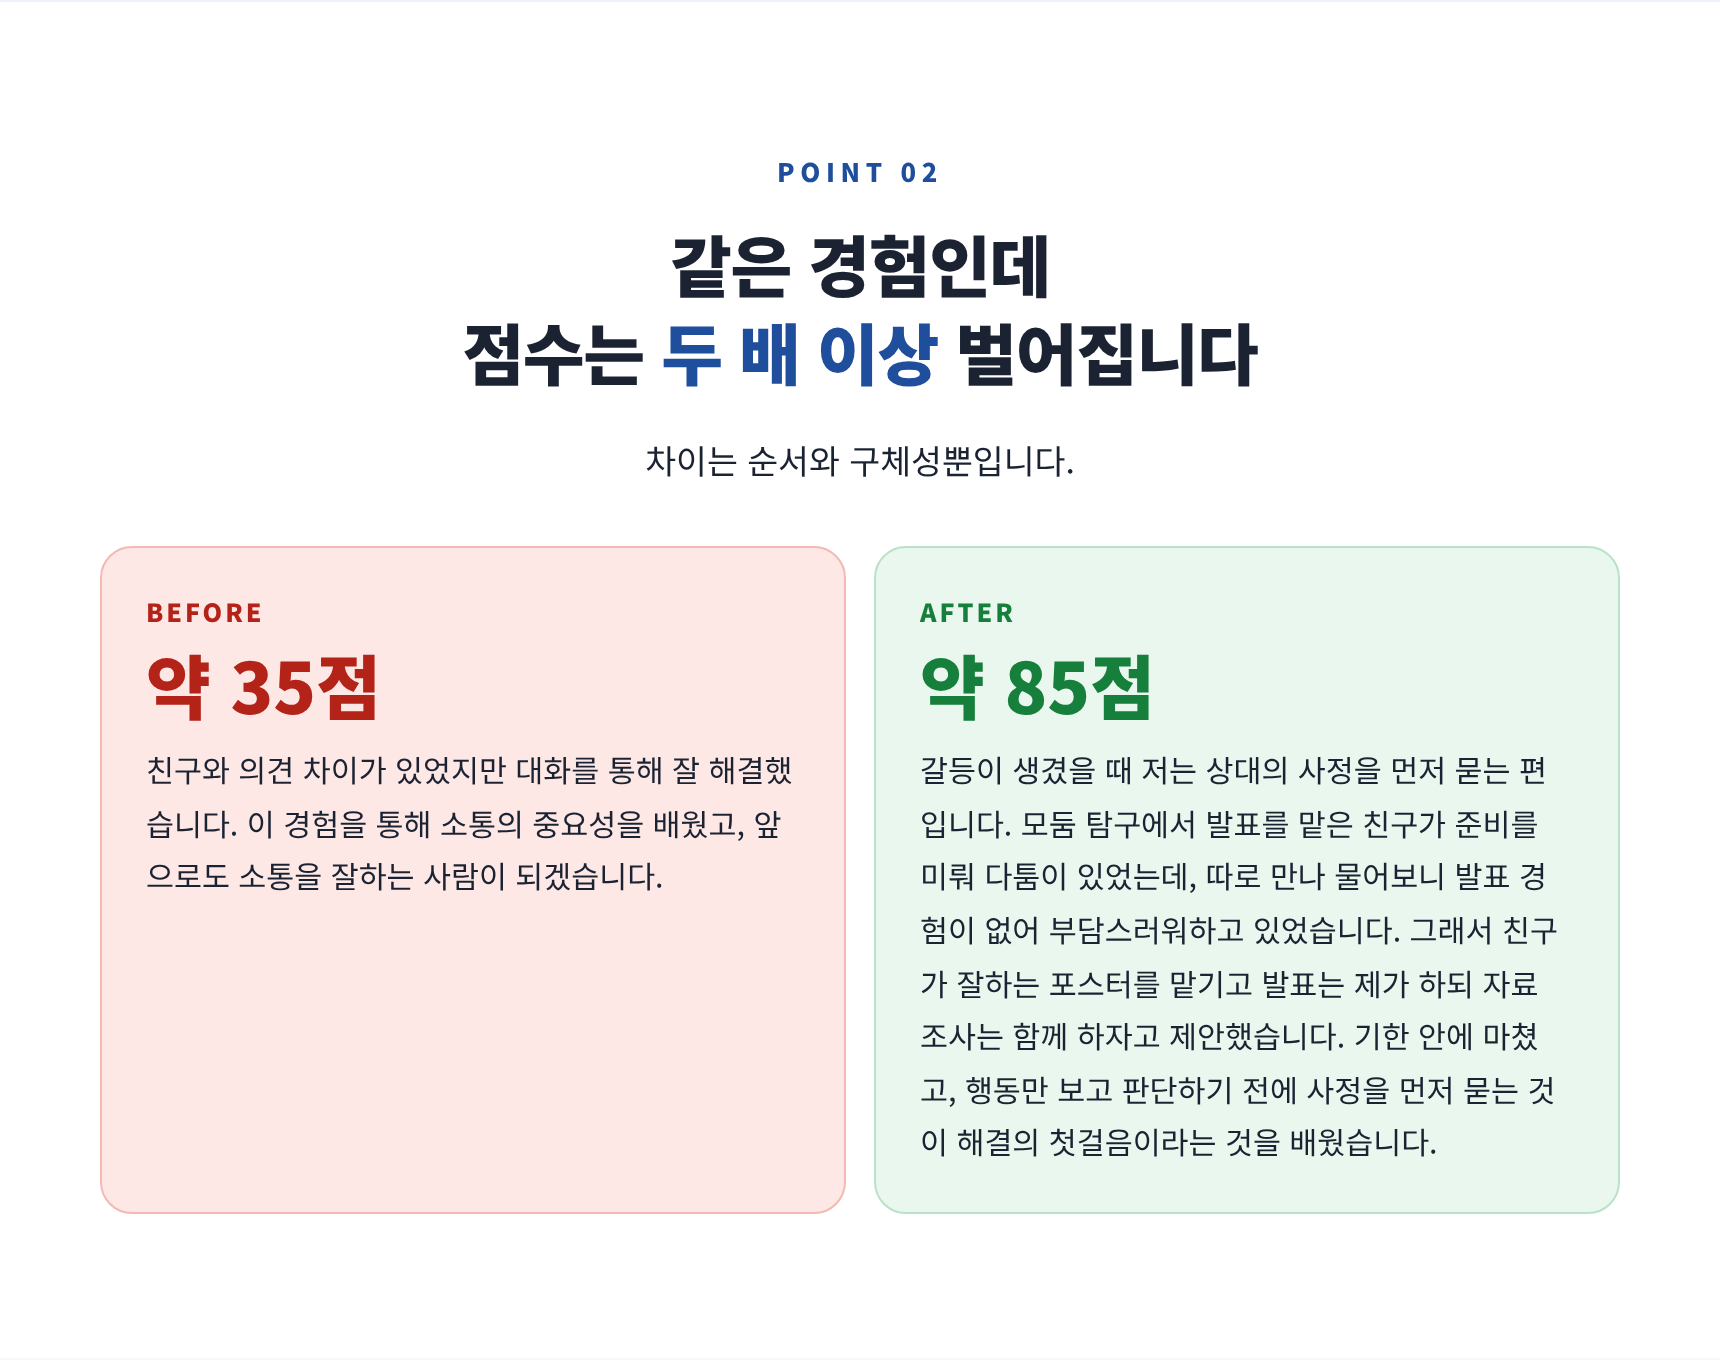
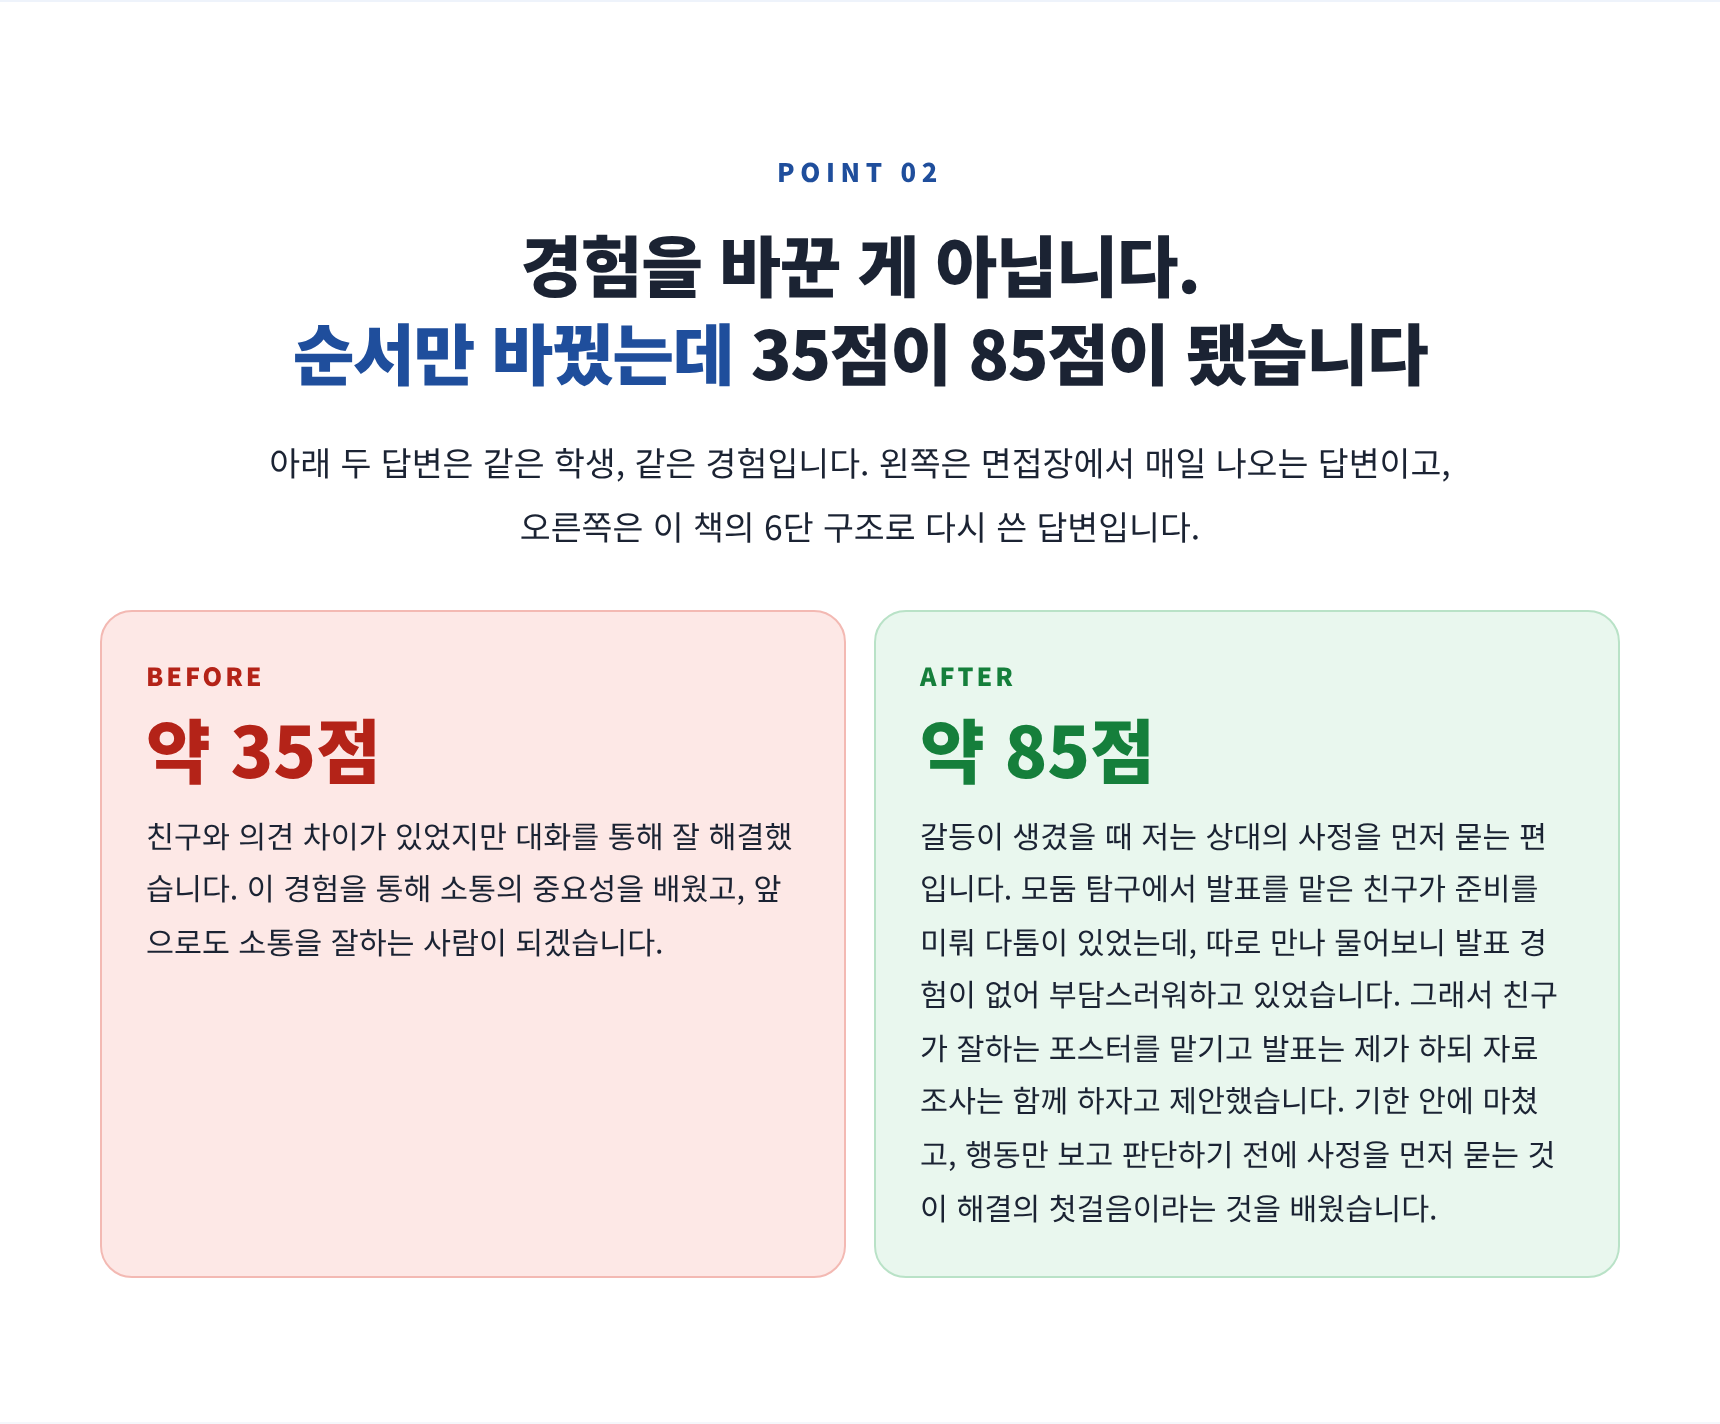
판매 페이지 후킹 강화: 실패 장면 4개·면접관 속마음·손실 숫자·마지막 CTA 추가, 상세 이미지 19장
Claude-Session: https://claude.ai/code/session_01LfMg5dKQNRxueXx57fvRFL

Changed region(s): [[0.0616, 0.0926, 0.832, 0.6794], [0.5238, 0.4324, 0.9244, 0.8647], [0.0616, 0.8647, 0.493, 0.8956]]

diff --git a/book.html b/book.html
@@ -18,8 +18,9 @@
   <section class="blk hero2" data-card="01-hero">
     <div class="cover"><small>수시 면접 · 입학처장의 채점표</small><b>면접관은<br>이렇게 듣는다</b><i>A4 24쪽 · 초판 2026.10</i></div>
     <span class="tag">초판 100부 한정 · 1권마다 1,000원 인상</span>
-    <h1 class="title">면접관은 잘 말하는 학생을<br>뽑지 않습니다</h1>
-    <p class="sub">현직 입학처장이 면접관 교육에서 쓰는 채점 기준을<br>수험생이 읽을 수 있게 처음으로 옮겼습니다.</p>
+    <p class="shock">3년을 준비하고, 7분 만에 결정됩니다.</p>
+    <h1 class="title">떨어진 학생 대부분은<br>왜 떨어졌는지 모릅니다</h1>
+    <p class="sub">면접관의 책상 위에는 채점표가 있습니다. 학생은 그걸 본 적이 없습니다.<br>현직 입학처장이 그 채점표와 "점수가 새는 지점"을 처음으로 수험생 쪽에서 썼습니다.</p>
     <div class="nums">
       <div><b>100</b><span>점 채점표</span></div>
       <div><b>10</b><span>문항 유형</span></div>
@@ -36,10 +37,50 @@
     <p class="p dim">없는 경험을 만들어 주는 책이 아닙니다. 있는 경험을 면접관이 알아듣는 구조로 바꾸는 책입니다.</p>
   </section>
 
+  <!-- 02b 실패 장면 -->
+  <section class="blk soft" data-card="02b-fails">
+    <span class="pt">면접장에서 매년 반복되는 장면</span>
+    <h2 class="h">열심히 준비한 학생이<br><em>이렇게</em> 떨어집니다</h2>
+    <p class="p">면접관 자리에서 매년 똑같이 보는 네 장면입니다. 학생 이름만 바뀝니다.</p>
+    <div class="fails">
+      <div class="fail"><div class="no">1</div><div><h4>외운 답변이 두 번째 문장에서 끊긴 학생</h4><p>"친구와 갈등이 있었는데… 갈등이 있었는데…" 처음부터 다시 시작했고, 면접관은 기다리지 않고 다음 질문으로 넘어갔습니다. 그 문항은 빈칸으로 남았습니다.</p><span class="mark">채점표에 적힌 것: <b>질문 충족 0 · 시간 0</b></span></div></div>
+      <div class="fail"><div class="no">2</div><div><h4>학원 답변으로 1분을 채운 학생</h4><p>답변은 매끄러웠습니다. 면접관이 물었습니다. "그래서 그때 학생이 직접 한 건 뭐예요?" 5초 침묵. 답변은 학생 것이 아니었고, 면접관은 그걸 첫 문장에서 이미 알고 있었습니다.</p><span class="mark">채점표에 적힌 것: <b>진정성 0 · 구체성 5</b></span></div></div>
+      <div class="fail"><div class="no">3</div><div><h4>"어릴 때부터 꿈이었습니다"로 시작한 학생</h4><p>그 문장이 나오는 순간 면접관의 펜이 멈춥니다. 하루에 서른 번 듣는 문장이기 때문입니다. 뒤에 아무리 좋은 말이 와도 이미 "또 그 답변"으로 분류됐습니다.</p><span class="mark">채점표에 적힌 것: <b>구체성 0 · 진정성 3</b></span></div></div>
+      <div class="fail"><div class="no">4</div><div><h4>긴장해서 학교 이름을 말한 학생</h4><p>"○○고등학교에서 동아리장을 하면서…" 블라인드 위반. 학교에 따라 감점이거나 그 답변 전체가 0점 처리됩니다. 3년 동안 쌓은 활동이 한 단어로 사라집니다.</p><span class="mark">채점표에 적힌 것: <b>블라인드 위반 -15</b></span></div></div>
+    </div>
+    <p class="src">특정 학생이 아니라 매년 반복되는 유형을 재구성했습니다. 네 장면 모두 이 책의 2장·5장·6장에서 고치는 법을 다룹니다.</p>
+  </section>
+
+  <!-- 02c 면접관 속마음 -->
+  <section class="blk navy" data-card="02c-inner">
+    <span class="pt">면접관이 속으로 하는 말</span>
+    <h2 class="h">면접관은 고개를 끄덕이면서<br><em>이렇게 생각합니다</em></h2>
+    <div class="inner">
+      <div><q>또 그 답변이네.</q><span>"소통의 중요성", "많은 것을 배웠다", "최선을 다하겠다". 들리는 순간 채점이 멈춥니다.</span></div>
+      <div><q>그래서 네가 한 건 뭔데?</q><span>상황 설명은 길고 본인 행동은 없습니다. 채점표의 "구체성 20점" 칸이 비어 있습니다.</span></div>
+      <div><q>이건 어른이 써 줬구나.</q><span>첫 문장의 어휘에서 보입니다. 꼬리질문 하나로 확인하고 진정성 점수를 지웁니다.</span></div>
+      <div><q>준비는 했는데, 줄 점수가 없네.</q><span>가장 안타까운 경우입니다. 노력은 보이는데 채점표 칸에 넣을 증거가 안 나옵니다.</span></div>
+    </div>
+    <div class="hr"></div>
+    <p class="p">이 책은 이 네 마디가 나오지 않게 만드는 책입니다.</p>
+  </section>
+
+  <!-- 02d 손실 숫자 -->
+  <section class="blk white" data-card="02d-loss">
+    <span class="pt">면접에서 사라지는 점수</span>
+    <h2 class="h">한 마디에 <em>-15점</em>,<br>한 문장에 <em>0점</em></h2>
+    <div class="loss">
+      <div><b>-15</b><span>학교명·가족 직업 한 단어<br>블라인드 위반 감점</span></div>
+      <div><b>0</b><span>"열심히 하겠습니다"가<br>채점표에서 받는 점수</span></div>
+      <div><b>11</b><span>면접관이 듣자마자<br>채점을 멈추는 문장 수</span></div>
+    </div>
+    <p class="p" style="margin-top:22px">점수는 잘해서 오르는 것이 아니라 <b>새지 않아서</b> 남습니다. 어디서 새는지 모르면 3년의 준비가 7분 안에 빠져나갑니다.</p>
+  </section>
+
   <!-- 03 메이커 스토리 -->
   <section class="blk navy" data-card="03-story">
     <span class="pt">메이커 스토리</span>
-    <h2 class="h">"이 학생, 준비는 많이 했는데<br><em>점수를 줄 데가 없다</em>"</h2>
+    <h2 class="h">면접관으로 앉을 때마다<br>같은 생각을 합니다.<br>"<em>이 학생, 아깝다.</em>"</h2>
     <p class="p">면접관으로 수백 명을 채점하면서 가장 자주 든 생각입니다. 답변은 유창한데, 채점표의 어느 칸에도 넣을 증거가 안 나옵니다.</p>
     <p class="p">이유는 하나였습니다. 학생은 "좋은 말"을 하고, 면접관은 "확인 가능한 사실"을 찾습니다. 좋은 말은 누구나 할 수 있어서 변별이 안 되고, 사실은 그 학생만 말할 수 있어서 점수가 됩니다.</p>
     <p class="p">면접관 교육에서 쓰는 기준을 수험생 쪽에서 읽을 수 있게 뒤집어 쓴 것이 이 책입니다.</p>
@@ -75,8 +116,8 @@
   <!-- 06 POINT 02 전후 -->
   <section class="blk white" data-card="06-point2">
     <span class="pt">POINT 02</span>
-    <h2 class="h">같은 경험인데<br>점수는 <em>두 배 이상</em> 벌어집니다</h2>
-    <p class="p">차이는 순서와 구체성뿐입니다.</p>
+    <h2 class="h">경험을 바꾼 게 아닙니다.<br><em>순서만 바꿨는데</em> 35점이 85점이 됐습니다</h2>
+    <p class="p">아래 두 답변은 같은 학생, 같은 경험입니다. 왼쪽은 면접장에서 매일 나오는 답변이고, 오른쪽은 이 책의 6단 구조로 다시 쓴 답변입니다.</p>
     <div class="ba">
       <div class="b"><span class="lbl">BEFORE</span><span class="sc">약 35점</span>친구와 의견 차이가 있었지만 대화를 통해 잘 해결했습니다. 이 경험을 통해 소통의 중요성을 배웠고, 앞으로도 소통을 잘하는 사람이 되겠습니다.</div>
       <div class="a"><span class="lbl">AFTER</span><span class="sc">약 85점</span>갈등이 생겼을 때 저는 상대의 사정을 먼저 묻는 편입니다. 모둠 탐구에서 발표를 맡은 친구가 준비를 미뤄 다툼이 있었는데, 따로 만나 물어보니 발표 경험이 없어 부담스러워하고 있었습니다. 그래서 친구가 잘하는 포스터를 맡기고 발표는 제가 하되 자료 조사는 함께 하자고 제안했습니다. 기한 안에 마쳤고, 행동만 보고 판단하기 전에 사정을 먼저 묻는 것이 해결의 첫걸음이라는 것을 배웠습니다.</div>
@@ -133,7 +174,7 @@
   <!-- 10 POINT 05 7일 플랜 -->
   <section class="blk soft" data-card="10-point5">
     <span class="pt">POINT 05</span>
-    <h2 class="h">답변을 쓰지 마세요.<br><em>키워드 여섯 줄</em>만 적으세요.</h2>
+    <h2 class="h">면접까지 7일.<br>답변을 외우는 데 쓰면 <em>늦습니다</em></h2>
     <p class="p">완성 문장을 외운 학생은 꼬리질문 하나에 무너집니다. 키워드로 연습한 학생은 한 단만 더 펼칩니다. 이 연습법을 날짜별로 나눈 7일 플랜과 셀프 채점표, 경험 워크시트가 들어 있습니다.</p>
     <div class="week">
       <div><b>D-7</b>문항 수집<br>유형 분류</div><div><b>D-6</b>경험 재료<br>8~10개</div><div><b>D-5</b>문항별<br>경험 배정</div><div><b>D-4</b>6단<br>키워드</div><div><b>D-3</b>말하기<br>녹음</div><div><b>D-2</b>꼬리질문<br>연습</div><div><b>D-1</b>셀프<br>채점</div>
@@ -143,7 +184,7 @@
   <!-- 11 리워드 -->
   <section class="blk white" id="price" data-card="11-reward">
     <span class="pt">리워드</span>
-    <h2 class="h">먼저 사는 사람이<br><em>가장 싸게</em> 삽니다</h2>
+    <h2 class="h">오늘 밤 1시간이면<br>내 답변이 <em>몇 점인지</em> 압니다</h2>
     <p class="p">초판 100부 한정. 1권 팔릴 때마다 1,000원씩 오르고, 한정 수량이 끝나면 인상을 멈춥니다. 내린 적은 없습니다.</p>
     <div class="tiers">
       <div class="tier" data-tier="0"><div><div class="nm">슈퍼 얼리버드 <small>1~30번째</small></div><div class="rg">19,000원 → 48,000원</div></div><div class="pr">19,000원~<small>지금 구간</small></div><div class="st"><span></span><i><b style="width:0%"></b></i></div></div>
@@ -175,6 +216,15 @@
       <div><b>즉시 전달</b>PDF 다운로드</div>
       <div><b>상담소</b>SNS 댓글로 답변 채점 문의</div>
       <div><b>초판 마감</b>100부 종료 시 인상 중단</div>
+    </div>
+  </section>
+
+  <!-- 12b 마지막 CTA -->
+  <section class="blk blue" data-card="12b-cta">
+    <div class="cta-big">
+      <p class="line">면접관은 당신의 3년을 7분 동안 봅니다.<br>그 7분을 채점표 순서대로 말하세요.</p>
+      <a id="buy2" href="#price">구매하고 바로 받기</a>
+      <p class="p" style="margin-top:16px;font-size:.9rem">지금 <b id="priceNow2">19,000원</b> · 다음 구매자 <b id="priceNext2">20,000원</b> · 초판 100부</p>
     </div>
   </section>
 
@@ -249,10 +299,11 @@
     el.classList.toggle("hot", sold >= start && sold < acc);
     const sm = el.querySelector(".pr small"); if (sm) sm.style.display = (sold >= start && sold < acc) ? "" : "none";
   });
-  const buy = $("buy"), bb = $("barBuy");
-  if (sold >= BOOK.limit) { buy.textContent = "초판 마감 · 2판 준비 중"; buy.classList.add("disabled"); buy.removeAttribute("href"); bb.textContent = "초판 마감"; bb.classList.add("disabled"); }
-  else if (BOOK.buyUrl) { buy.href = BOOK.buyUrl; bb.href = BOOK.buyUrl; bb.target = "_blank"; }
-  else { buy.textContent = "판매 준비 중"; buy.classList.add("disabled"); buy.removeAttribute("href"); bb.textContent = "판매 준비 중"; bb.classList.add("disabled"); }
+  const buy = $("buy"), bb = $("barBuy"), b2 = $("buy2");
+  $("priceNow2").textContent = now; $("priceNext2").textContent = $("priceNext").textContent;
+  if (sold >= BOOK.limit) { buy.textContent = "초판 마감 · 2판 준비 중"; buy.classList.add("disabled"); buy.removeAttribute("href"); bb.textContent = "초판 마감"; bb.classList.add("disabled"); b2.textContent = "초판 마감"; b2.classList.add("disabled"); }
+  else if (BOOK.buyUrl) { buy.href = BOOK.buyUrl; bb.href = BOOK.buyUrl; bb.target = "_blank"; b2.href = BOOK.buyUrl; b2.target = "_blank"; }
+  else { buy.textContent = "판매 준비 중"; buy.classList.add("disabled"); buy.removeAttribute("href"); bb.textContent = "판매 준비 중"; bb.classList.add("disabled"); b2.textContent = "판매 준비 중"; b2.classList.add("disabled"); }
   if (BOOK.contact) { const a = $("ask"); a.style.display = "inline-flex"; a.href = BOOK.contact.includes("@") ? "mailto:" + BOOK.contact : BOOK.contact; }
 </script>
 </body>

diff --git a/css/book.css b/css/book.css
@@ -144,3 +144,28 @@
 .bar a { background: #1f4e9c; color: #fff; text-decoration: none; font-weight: 800; padding: 12px 22px; border-radius: 10px; }
 .bar a.disabled { background: #dfe5ef; color: #5d6b82; pointer-events: none; }
 body { padding-bottom: 70px; }
+/* v3 후킹 강화: 실패 장면, 면접관 속마음, 손실 숫자 */
+.hero2 .shock { font-size: 1.15rem; color: #ffd166; font-weight: 800; margin: 0 0 10px; letter-spacing: .02em; }
+.fails { display: grid; gap: 14px; max-width: 700px; margin: 26px auto 0; text-align: left; }
+.fail { background: #fff; border: 1px solid #dfe5ef; border-radius: 16px; padding: 20px 22px; display: grid; grid-template-columns: 54px 1fr; gap: 16px; }
+.fail .no { width: 54px; height: 54px; border-radius: 14px; background: #fde8e6; color: #b42318; display: grid; place-items: center; font-weight: 900; font-size: 1.2rem; }
+.fail h4 { margin: 0 0 6px; font-size: 1.05rem; }
+.fail p { margin: 0; font-size: .93rem; line-height: 1.75; color: #334155; }
+.fail .mark { display: inline-block; margin-top: 10px; background: #1b2333; color: #ffd166; font-size: .8rem; font-weight: 700; padding: 5px 10px; border-radius: 6px; }
+.fail .mark b { color: #fff; }
+.inner { display: grid; grid-template-columns: 1fr 1fr; gap: 12px; max-width: 700px; margin: 26px auto 0; }
+.inner div { background: rgba(255,255,255,.06); border: 1px solid rgba(255,255,255,.14); border-radius: 14px; padding: 20px 18px; text-align: left; }
+.inner q { display: block; font-size: 1.15rem; font-weight: 800; color: #fff; quotes: "“" "”"; line-height: 1.5; margin-bottom: 8px; }
+.inner span { font-size: .84rem; color: #c7d2e4; line-height: 1.6; }
+@media (max-width: 600px) { .inner { grid-template-columns: 1fr; } .fail { grid-template-columns: 1fr; } }
+.loss { display: grid; grid-template-columns: repeat(3, 1fr); gap: 12px; max-width: 680px; margin: 26px auto 0; }
+.loss div { background: #fff; border: 1px solid #dfe5ef; border-radius: 16px; padding: 22px 10px; }
+.loss b { display: block; font-size: 2.6rem; font-weight: 900; color: #b42318; line-height: 1; margin-bottom: 8px; letter-spacing: -.02em; }
+.loss span { font-size: .86rem; color: #334155; line-height: 1.5; display: block; }
+@media (max-width: 600px) { .loss { grid-template-columns: 1fr; } }
+.strike { text-decoration: line-through; opacity: .6; }
+.cta-big { max-width: 640px; margin: 26px auto 0; }
+.cta-big .line { font-size: 1.45rem; font-weight: 900; line-height: 1.5; color: #fff; margin-bottom: 18px; word-break: keep-all; }
+.cta-big a { display: inline-flex; padding: 18px 44px; font-size: 1.15rem; font-weight: 900; border-radius: 14px; background: #ffd166; color: #1b2333; text-decoration: none; }
+.cta-big a.disabled { background: #334155; color: #8fa0b8; pointer-events: none; }
+.src { font-size: .78rem; color: #8a97ad; margin-top: 16px; }

diff --git a/README.md b/README.md
@@ -3,7 +3,7 @@
 수시 면접 코칭 사업의 입구 상품. 현직 입학처장의 채점표, 평범한 답변 11가지, 6단 답변 구조, 문항 10유형 해부(평범한 답변 → 차별화 답변 → 꼬리질문 3개), 7일 준비 플랜, 셀프 채점표. A4 24쪽. 내용은 `js/coach/framework.js`의 평가 프레임과 같은 기준입니다.
 
 - `book/manuscript.html` 원고 → `node book/build.mjs` → `book/면접관은-이렇게-듣는다.pdf` (Playwright·Chromium, 한글 웹폰트 로딩에 네트워크 필요)
-- `book.html` 판매 페이지(와디즈형 세로 상세페이지). `node book/cards.mjs`로 15개 섹션을 PNG로 `book/detail/`에 내보내 크몽·래피드 상세 이미지로 올립니다. 가격 규칙(초판 19,000원, 1권마다 +1,000원, 100부 한정), 판매 수, 구매 링크, 문의처는 `js/book-config.js`에서만 바꿉니다. `sold`는 플랫폼 실제 주문 수와 같게 갱신합니다.
+- `book.html` 판매 페이지(와디즈형 세로 상세페이지). `node book/cards.mjs`로 19개 섹션을 PNG로 `book/detail/`에 내보내 크몽·래피드 상세 이미지로 올립니다. 가격 규칙(초판 19,000원, 1권마다 +1,000원, 100부 한정), 판매 수, 구매 링크, 문의처는 `js/book-config.js`에서만 바꿉니다. `sold`는 플랫폼 실제 주문 수와 같게 갱신합니다.
 - `marketing/launch-checklist.md` 출시 전 교수님이 직접 할 일(저장소 공개 여부, 겸직 규정, 플랫폼 등록, 환불 규정, 사업자). **저장소가 공개이면 `book/`의 원고와 PDF가 그대로 노출되므로 판매 전에 옮기세요.**
 - `marketing/threads-posts.md` 홍보 글 10개, `marketing/consult-templates.md` 면접 고민 상담소 답변 틀.
 - `CLAUDE.md` AI 운영 매뉴얼(역할, 검수 규칙, 금지 사항, 매일 루틴).
